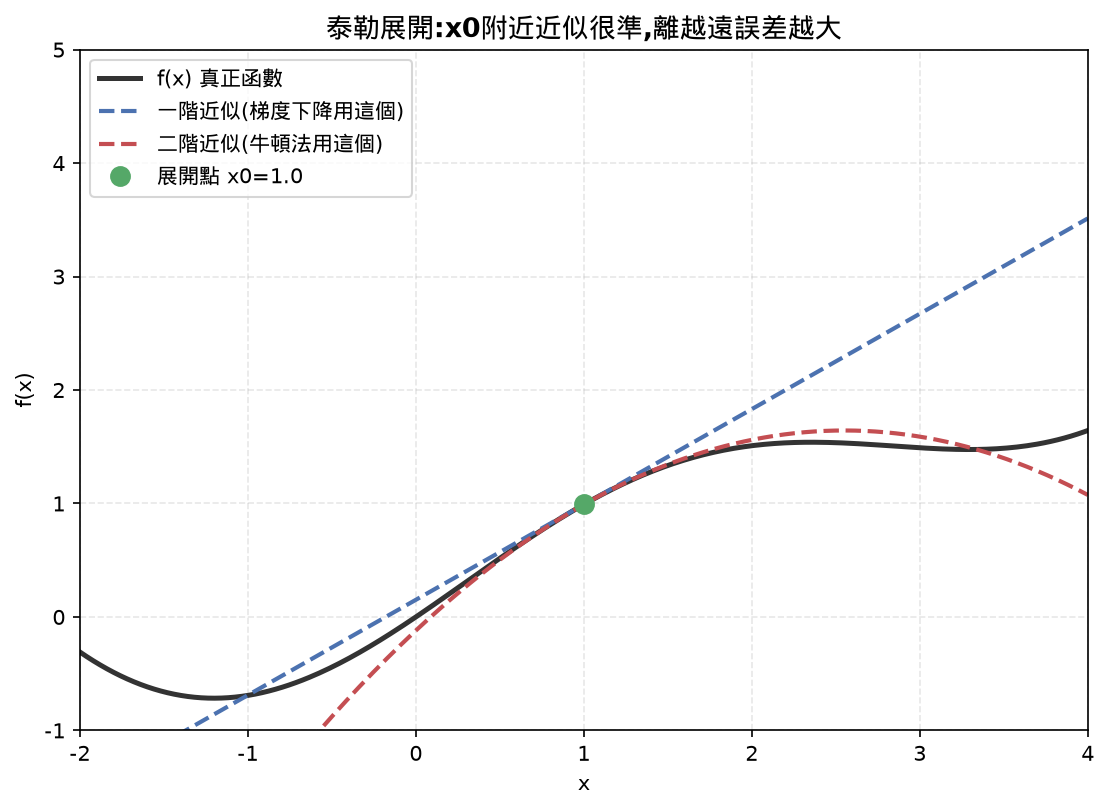
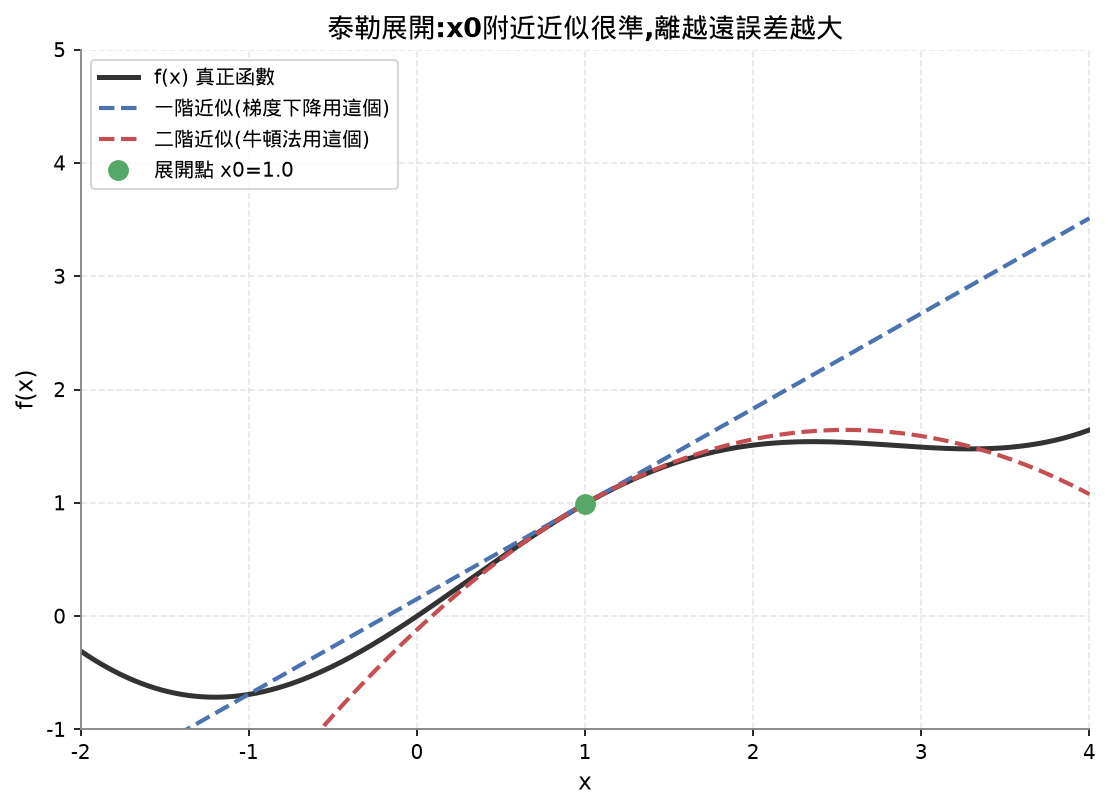
Lesson 4 diagrams: unify visual style
Regenerate with the shared plot style module.

diff --git a/01-math-foundations/04-calculus-for-ml/images/make_linear_regression_demo.py b/01-math-foundations/04-calculus-for-ml/images/make_linear_regression_demo.py
@@ -6,9 +6,10 @@ import matplotlib.font_manager as fm
 import matplotlib.pyplot as plt
 import numpy as np
 
-fm.fontManager.addfont("/usr/share/fonts/truetype/droid/DroidSansFallbackFull.ttf")
-matplotlib.rcParams["font.family"] = ["DejaVu Sans", "Droid Sans Fallback"]
-matplotlib.rcParams["axes.unicode_minus"] = False
+import sys
+sys.path.insert(0, "../../_shared")
+from plot_style import setup_style, BLUE, RED, GREEN, PURPLE, GOLD, GRAY
+setup_style()
 
 import random
 random.seed(42)
@@ -46,7 +47,7 @@ for (ep, (wv, bv)), c in zip(snapshots.items(), colors):
     ax.plot(xline, wv * xline + bv, color=c, lw=2, label=f"epoch {ep}: y={wv:.2f}x+{bv:.2f}")
 ax.set_xlim(0, 6); ax.set_ylim(0, 13)
 ax.grid(alpha=0.3, linestyle="--")
-ax.legend(fontsize=8.5)
+ax.legend()
 ax.set_title("擬合線隨訓練逐漸逼近真實關係", fontsize=11.5, fontweight="bold")
 
 ax = axes[1]
@@ -57,7 +58,7 @@ ax.set_ylabel("loss (MSE, log scale)", fontsize=10)
 ax.grid(alpha=0.3, linestyle="--")
 ax.set_title("loss隨梯度下降穩定下降", fontsize=11.5, fontweight="bold")
 
-fig.suptitle("線性迴歸(Linear Regression):predict -> loss -> gradient -> update", fontsize=13, fontweight="bold")
+fig.suptitle("線性迴歸(Linear Regression):predict -> loss -> gradient -> update")
 plt.tight_layout()
 plt.savefig("linear_regression_training.png", dpi=150, bbox_inches="tight")
 print("saved", f"final w={w:.3f} b={b:.3f}")

diff --git a/01-math-foundations/04-calculus-for-ml/images/make_saddle_point_demo.py b/01-math-foundations/04-calculus-for-ml/images/make_saddle_point_demo.py
@@ -8,9 +8,10 @@ import matplotlib.pyplot as plt
 import numpy as np
 from mpl_toolkits.mplot3d import Axes3D  # noqa
 
-fm.fontManager.addfont("/usr/share/fonts/truetype/droid/DroidSansFallbackFull.ttf")
-matplotlib.rcParams["font.family"] = ["DejaVu Sans", "Droid Sans Fallback"]
-matplotlib.rcParams["axes.unicode_minus"] = False
+import sys
+sys.path.insert(0, "../../_shared")
+from plot_style import setup_style, BLUE, RED, GREEN, PURPLE, GOLD, GRAY
+setup_style()
 
 X, Y = np.meshgrid(np.linspace(-2, 2, 80), np.linspace(-2, 2, 80))
 Z_min = X ** 2 + Y ** 2          # Hessian eigenvalues全正 -> 真正最低點
@@ -30,7 +31,7 @@ ax2.scatter([0], [0], [0], color="#4C72B0", s=60, depthshade=False)
 ax2.set_title("鞍點 (Saddle Point)\nHessian eigenvalue有正有負", fontsize=11.5, fontweight="bold", color="#C44E52")
 ax2.set_xlabel("x"); ax2.set_ylabel("y"); ax2.set_zlabel("f")
 
-fig.suptitle("梯度=0的兩種情況:真正最低點 vs 鞍點,靠Hessian的eigenvalue分辨", fontsize=13, fontweight="bold")
+fig.suptitle("梯度=0的兩種情況:真正最低點 vs 鞍點,靠Hessian的eigenvalue分辨")
 plt.tight_layout()
 plt.savefig("saddle_point_vs_minimum.png", dpi=150, bbox_inches="tight")
 print("saved")

diff --git a/01-math-foundations/04-calculus-for-ml/images/make_sigmoid_derivative_demo.py b/01-math-foundations/04-calculus-for-ml/images/make_sigmoid_derivative_demo.py
@@ -6,9 +6,10 @@ import matplotlib.font_manager as fm
 import matplotlib.pyplot as plt
 import numpy as np
 
-fm.fontManager.addfont("/usr/share/fonts/truetype/droid/DroidSansFallbackFull.ttf")
-matplotlib.rcParams["font.family"] = ["DejaVu Sans", "Droid Sans Fallback"]
-matplotlib.rcParams["axes.unicode_minus"] = False
+import sys
+sys.path.insert(0, "../../_shared")
+from plot_style import setup_style, BLUE, RED, GREEN, PURPLE, GOLD, GRAY
+setup_style()
 
 x = np.linspace(-8, 8, 400)
 f = 1 / (1 + np.exp(-x))
@@ -22,8 +23,8 @@ ax.axvline(0, color="#bbbbbb", lw=0.7, linestyle="--")
 ax.scatter([0], [0.25], color="#C44E52", zorder=5, s=50)
 ax.annotate("x=0時導數最大=0.25", (0, 0.25), textcoords="offset points", xytext=(15, 10), fontsize=9.5)
 ax.grid(alpha=0.3, linestyle="--")
-ax.legend(fontsize=10, loc="upper left")
-ax.set_title("sigmoid 與導數:f'(x)可以完全用f(x)自己表示", fontsize=12.5, fontweight="bold")
+ax.legend(loc="upper left")
+ax.set_title("sigmoid 與導數:f'(x)可以完全用f(x)自己表示")
 
 plt.tight_layout()
 plt.savefig("sigmoid_derivative.png", dpi=150, bbox_inches="tight")

diff --git a/01-math-foundations/04-calculus-for-ml/images/make_gradient_direction_demo.py b/01-math-foundations/04-calculus-for-ml/images/make_gradient_direction_demo.py
@@ -7,9 +7,10 @@ import matplotlib.font_manager as fm
 import matplotlib.pyplot as plt
 import numpy as np
 
-fm.fontManager.addfont("/usr/share/fonts/truetype/droid/DroidSansFallbackFull.ttf")
-matplotlib.rcParams["font.family"] = ["DejaVu Sans", "Droid Sans Fallback"]
-matplotlib.rcParams["axes.unicode_minus"] = False
+import sys
+sys.path.insert(0, "../../_shared")
+from plot_style import setup_style, BLUE, RED, GREEN, PURPLE, GOLD, GRAY
+setup_style()
 
 def f(x, y):
     return (x - 1) ** 2 + 2 * (y - 0.5) ** 2
@@ -40,8 +41,8 @@ ax.text(px - g_unit[0] * 1.9, py - g_unit[1] * 1.9, "負梯度\n(梯度下降走
         fontsize=10.5, fontweight="bold", ha="center")
 
 ax.plot(1, 0.5, "*", color="#55A868", markersize=18, label="最低點 (1, 0.5)")
-ax.legend(loc="upper right", fontsize=9)
-ax.set_title("2D梯度方向:垂直於等高線,指向數值增加最快的方向", fontsize=12.5, fontweight="bold")
+ax.legend(loc="upper right")
+ax.set_title("2D梯度方向:垂直於等高線,指向數值增加最快的方向")
 ax.set_xlabel("x")
 ax.set_ylabel("y")
 

diff --git a/01-math-foundations/04-calculus-for-ml/images/make_newtons_method_demo.py b/01-math-foundations/04-calculus-for-ml/images/make_newtons_method_demo.py
@@ -7,9 +7,10 @@ import matplotlib.font_manager as fm
 import matplotlib.pyplot as plt
 import numpy as np
 
-fm.fontManager.addfont("/usr/share/fonts/truetype/droid/DroidSansFallbackFull.ttf")
-matplotlib.rcParams["font.family"] = ["DejaVu Sans", "Droid Sans Fallback"]
-matplotlib.rcParams["axes.unicode_minus"] = False
+import sys
+sys.path.insert(0, "../../_shared")
+from plot_style import setup_style, BLUE, RED, GREEN, PURPLE, GOLD, GRAY
+setup_style()
 
 
 def f(x):
@@ -49,8 +50,8 @@ ax.plot(newton_path, f(newton_path), "o-", color="#C44E52", lw=2, markersize=6,
 
 ax.axhline(0, color="#bbbbbb", lw=0.6)
 ax.grid(alpha=0.3, linestyle="--")
-ax.legend(fontsize=9.5, loc="upper center")
-ax.set_title("牛頓法 vs 梯度下降:多用二階資訊(Hessian)收斂更快", fontsize=12, fontweight="bold")
+ax.legend(loc="upper center")
+ax.set_title("牛頓法 vs 梯度下降:多用二階資訊(Hessian)收斂更快")
 
 plt.tight_layout()
 plt.savefig("newtons_method_vs_gd.png", dpi=150, bbox_inches="tight")
